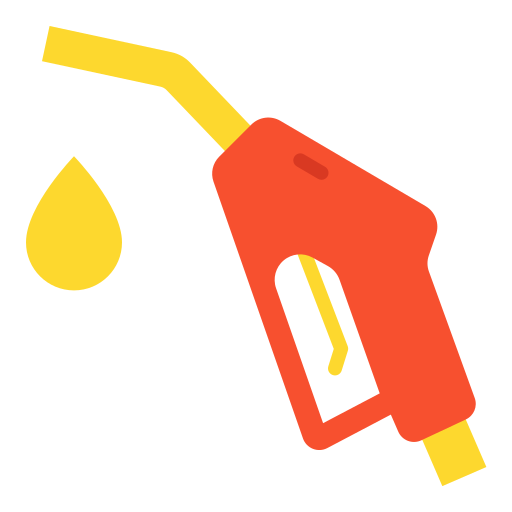
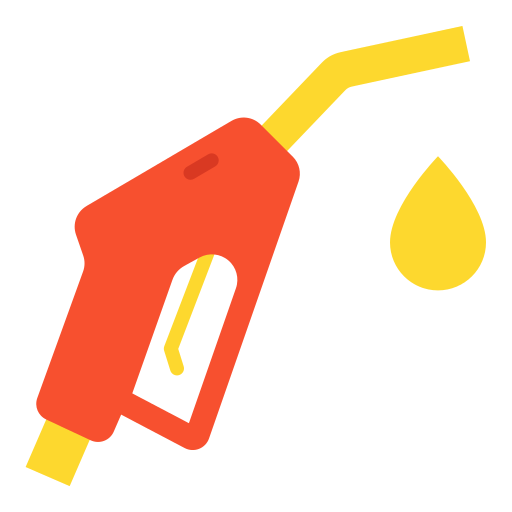
.....

diff --git a/transport/templates/transport/includes/work-shifts-app/template.html b/transport/templates/transport/includes/work-shifts-app/template.html
@@ -248,6 +248,8 @@
                 <strong>
                   <span v-text="sum_karkerd()"></span>
                 </strong>
+                <span class="badge badge-primary">ساعت</span>
+
                 
                  <div>
                     <small>
@@ -267,6 +269,7 @@
                 <strong>
                   <span v-text="sum_gasoil_liter()"></span>
                 </strong> 
+                <span class="badge badge-primary">لیتر</span>
                 <div>
                     <small>
 
@@ -284,6 +287,8 @@
                 <strong>
                   <span v-text="sum_oil_liter()"></span>
                 </strong> 
+                <span class="badge badge-primary">لیتر</span>
+
                 <div>
                     <small>
 
@@ -302,11 +307,14 @@
                 <strong>
                   <span v-text="sum_tavaghof()"></span>
                 </strong>
+                <span class="badge badge-primary">ساعت</span>
+
                     <div>
                     <small>
 
                         مجموع توقفات
                     </small>
+
                 </div>
 
               </th>
